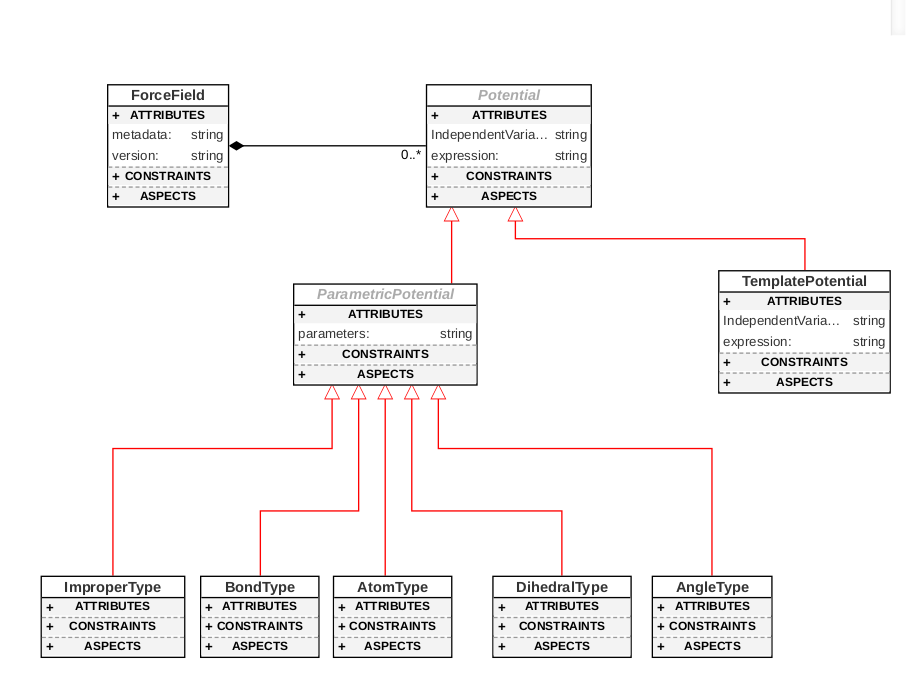
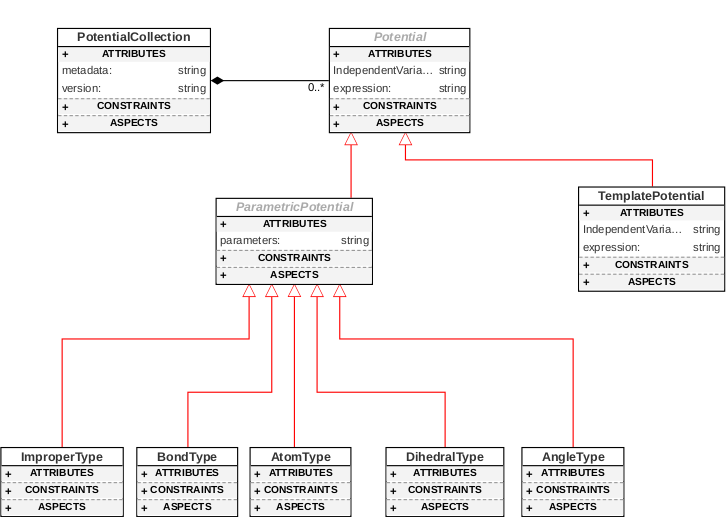
Fix Typos in report.tex. Closes #16 (#17)
* ReadThrough One Fixes

* WIP- Change shanges to changes

* WIP- Change images

* WIP- Fix diagram descriptions

* WIP- Fix typo in set

* WIP- Fix typos/indentation

Changed region(s): [[0.0, 0.3714, 0.8764, 1.0], [0.0604, 0.0309, 0.6648, 0.3404], [0.5742, 0.3095, 0.9973, 0.588]]

diff --git a/docs/report.tex b/docs/report.tex
@@ -42,16 +42,16 @@
 
 {\centering \section*{Overview}}
 
-The General Purpose Molecular Simulation Objects (\textbf{GPMSO}) will be a comprehensive representation of data types, capabilities and structural representation of an object needed to efficiently represent chemical topology/system which can be leveraged to write out files necessary for different simulation engines as well as cover heterogeneous domain of molecular dynamics. \\~\\
+The General Purpose Molecular Simulation Objects (\textbf{GPMSO}) will be a comprehensive representation of data types, capabilities and structural representation of objects needed to efficiently represent chemical topology/system which can be leveraged to write out files necessary for different simulation engines as well as cover heterogeneous domains of molecular simulations. \\~\\
 The objectives of this \textbf{GPMSO} are:
 \begin{enumerate}
-    \item Have an efficient in--memory representation of different aspects of a chemical topology like \texttt{Atoms}, \texttt{Connections}, \texttt{Potential Forms}, \texttt{ForceFields} etc...
+    \item Have an efficient in--memory representation of different aspects of a chemical topology like \texttt{Sites}, \texttt{Connections}, \texttt{Potentials}, \texttt{ForceFields} etc...
     \item Have an efficient serialized/disk representation of the system which can be loaded to create an object and vice versa.
     \item Have a convenient interface for extension/interfacing with other specifications in this realm.
     \item Have support for mathematical expressions and parameters that would be used to represent different physical quantities, preferably with support for different unit systems.
 \end{enumerate}
 
-To that end, this document serves as a starting point for developers/ software scientists looking for standard practices and avoiding pitfalls in deigning/implementing a molecular simulation object.
+To that end, this document serves as a starting point for developers/software scientists looking for standard practices and avoiding pitfalls in designing/implementing a molecular simulation objects.
 
 {\centering \section*{Revision History}}
 \begin{table}[ht]
@@ -73,7 +73,7 @@ To that end, this document serves as a starting point for developers/ software s
 
 % Major Sections
 \section{Introduction}
-System requirements specification (\textbf{SRS}) for the General Purpose Molecular Simulation Objects (\textit{GPMSO}) are introduced in this section.
+System requirements specification (\textbf{SRS}) for the General Purpose Molecular Simulation Objects (\textit{GPMSO}) is introduced in this section.
 
 \subsection{Specification Definition}
 This specification documents the system--level requirements for \textit{GPMSO}.
@@ -85,9 +85,8 @@ The objectives of this specification are:
     \item Provide a system overview of the \textit{GPMSO} including definitions, goals, objectives, context and major capabilities.
     \item To formally specify its associated:
       \begin{itemize}
-          \item Functional requirements
-          \item Data requirements
-          \item Constraints
+          \item Functional requirements via capabilities
+          \item Data requirements via constituents and properties
       \end{itemize}
 \end{itemize}
 
@@ -95,8 +94,8 @@ The objectives of this specification are:
 The intended audiences for this document are:
 
 \begin{enumerate}
-    \item Software developers/Research Engineers/Research Scientists looking for high level overview of an molecular system object
-    \item Researchers using different simulation engines for their MD simulation
+    \item Software developers/Research Scientists/Engineers looking for high level overview of a molecular simulation object
+    \item Researchers using different simulation engines for their molecular simulation
 \end{enumerate}
 
 \subsection{Specification Overview}
@@ -104,59 +103,59 @@ The intended audiences for this document are:
 
 \pagebreak
 \section{GPMSO System Overview}
-Any general purpose representation of a molecular system that could be leveraged for MD simulation purposes has following advantages:
+Any general purpose representation of a molecular system that could be leveraged for molecular simulation purposes has following advantages:
 \begin{enumerate}
     \item Support for multiple different chemistries allows for research groups/ labs not to rely on in house tools but rather harness the power of open--source development practices to solve in--house research problems
     \item Single avenue for maintenance and extension
     \item Possibility of a well maintained, documented open--source code base supporting the needs of a plethora of researchers/software developers working in the area with quick bug--fixes and scheduled releases
 \end{enumerate}
 
-To specify a typed system specification we need the following containers:
+\noindent To specify a typed system specification we need the following containers:
 
 \begin{enumerate}
-    \item The base container (\texttt{System} or \texttt{Topology}): A container object representing physical constructs as well as the necessary physics that define a molecular system.
+    \item The base container (\texttt{System}): A container object representing physical constructs as well as the necessary physics that define a molecular system
 
-    \item The non-physical interaction container (\texttt{ForceField} or \texttt{PotentialCollection}): A container representing non-physical constructs like energies, functional forms of interactions etc… in a typed/parameterized molecular system.
+    \item The non-physical interaction container (\texttt{PotentialCollection}): A container representing non-physical constructs like energies, functional forms of interactions etc… in a typed/parameterized molecular system
 \end{enumerate}
 
-We should be able to create a \texttt{ForceField} or a container of Potentials from a \texttt{System} or \texttt{Topology} container (if they exist). The constituents, properties and capabilities of the containers are shown below (Section~\ref{def:Topology} and Section~\ref{def:Topology}).
+We should be able to create a \texttt{PotentialCollection} from a parameterized/ typed \texttt{System} container. The constituents, properties and capabilities of these containers are described in Section~\ref{def:Topology} and Section~\ref{def:ForceField}.
 
-\subsection{Topology or System}
+\subsection{System}
 \label{def:Topology}
-As mentioned earlier, a \texttt{Topology} or \texttt{System} is a collection of physical constructs that define a molecular system. The constructs (constituents, properties and capabilities) to define a typed \texttt{Topology} or \texttt{System} are shown in  Table~\ref{tab:TopologySpec} :
+As mentioned earlier, a \texttt{System} is a collection of physical constructs that define a molecular system. The constructs (constituents, properties and capabilities) to define a parameterized \texttt{System} are shown in  Table~\ref{tab:TopologySpec}:
 
  \rowcolors{2}{gray!35}{white}
 \begin{table}[ht]
     \centering
-     \caption{Typed Topology Representation}
+     \caption{Parameterized System Representation}
     \begin{tabular}{|l|}
          \hline
          \rowcolor{gray!50}
-         \texttt{Topology}/\texttt{System}  \\
+        \texttt{System}  \\
          \hline
          \textbf{Constituents} \\
-         \texttt{Site} (0..n) \\
-         \texttt{Connection} (0..n)\\
-         \texttt{Potential} (0..n)\\
+         \texttt{Site} (0..*) \\
+         \texttt{Connection} (0..*)\\
+         \texttt{Potential} (0..*)\\
          \hline
          \textbf{Properties}\\
          \texttt{Metadata} \\
          \hline
          \textbf{Capabilities}\\
          \hline
-         - Easy Lookup for constituents \\
-         - Positions Lookup \\
-         - Identifiable Connections \\
-         - Easy bookkeeping for Potentials/Functional forms \\
+         - Easy lookup for constituents \\
+         - Positions lookup \\
+         - Identifiable connections \\
+         - Easy bookkeeping for potentials/functional forms \\
          - Formal serialized representation (deterministic schema) \\
          - Visualization \\
          - Support for different file formats (dependent on the simulation engine) \\
-         - Interaction/Composition with other \texttt{Topology}/\texttt{System}\\
-         - Constituent datatype Validation \\
-         - Unit Support \\
+         - Interaction/Composition with other \texttt{Systems}\\
+         - Constituent datatype validation \\
+         - Unit support \\
          - Extensible architecture \\
          - Easy conversion to/and from other similar \texttt{System} objects\\
-         - Track Changes \\
+         - Track changes \\
 
         \hline
 
@@ -165,51 +164,51 @@ As mentioned earlier, a \texttt{Topology} or \texttt{System} is a collection of 
 \end{table}
 
 \subsubsection{Constituents}
-A topology container should have following constituents:
+A \texttt{System} container should have following constituents:
 \begin{itemize}
-    \item \texttt{Site}: \texttt{Site} represents any general interaction site in a molecular simulation. There can be any number of \texttt{Site} and their variants in a \texttt{Topology}/ \texttt{System} container.
+    \item \texttt{Site}: \texttt{Site} represents any general interaction site in a molecular simulation. There can be any number of \texttt{Site} and their variants in a \texttt{System} container.
 
-    \item \texttt{Connection}: A \texttt{Connection} stores data about connections between sites. There can be any number of \texttt{Connection} and its vairants in a \texttt{Topology}/\texttt{System} container.
+    \item \texttt{Connection}: A \texttt{Connection} stores data about connections between sites. There can be any number of \texttt{Connection} and its variants in a \texttt{System} container.
 
-    \item \texttt{Potential}: \texttt{Potential} stores a general interaction between components of a chemical topology that can be specified by a mathematical expression and parameters. \texttt{Potentials} generally are generally associated with a typed \texttt{System}/ \texttt{Topology} container and there can by any number of \texttt{Potential} and its variants in it.
+    \item \texttt{Potential}: \texttt{Potential} stores a general interaction between components of a chemical topology that can be specified by a mathematical expression and parameters. \texttt{Potentials} are generally associated with a typed/parameterized \texttt{System} container and there can be any number of \texttt{Potential} and its variants in it.
 \end{itemize}
 
 \subsubsection{Properties}
-Generally, the following properties should be associated with a \texttt{Topology}/ \texttt{System} container:
+Generally, the following properties should be associated with a \texttt{System} container:
 
 \begin{itemize}
     \item \texttt{Metadata}: Metadata regarding combining rules, units, parametric solvers etc...
 \end{itemize}
 
 \subsubsection{Capabilities}
-As shown in Table~\ref{tab:TopologySpec}, a \texttt{Topology} or \texttt{System} should have easy lookup for its constituents based on identifiable boundaries like residues or chains, shared attributes of its constituents like all sites of a particular type or potentials of a particular type and many other constructs that might be relevant to molecular simulation. Lookup for constituents should facilitate conversion to other standard representation as well writers that generate files for different simulation engines. A \texttt{Topology} or \texttt{System} container should be able to locate every constituent \texttt{Site} within in 3D-Euclidean space and alter their positions. A \texttt{Topology} or \texttt{System} should also be able to track changes on its constituents.
+As shown in Table~\ref{tab:TopologySpec}, a \texttt{System} should be able easily lookup its constituents based on identifiable boundaries like residues or chains, shared attributes of its constituents like all sites of a particular type, all potentials of a particular type and many other constructs that might be relevant to molecular simulation. Lookup for constituents should facilitate conversion to other standard representation as well writers that generate files for different simulation engines. A \texttt{System} container should be able to locate every constituent \texttt{Site} within in 3D-Euclidean space and alter their positions. A \texttt{System} should also be able to track changes on its constituents.
 
-Additionally, A \texttt{Topology} or \texttt{System} container should also have a deterministic schema for its serialized representation such that a seamless conversion from disk--to--memory or memory--to--disk is possible. A \texttt{Topology} or \texttt{System} container should also have support for different file formats that are required by a diverse array of simulation engines and there should be relatively painless way of handling file--format support.
+Additionally, a \texttt{System} container should also have a deterministic schema for its serialized representation such that a seamless conversion from disk--to--memory or memory--to--disk is possible. A \texttt{System} container should also have support for different file formats that are required by a diverse array of simulation engines and there should be relatively painless way of handling file--format support.
 
-Moreover, a \texttt{Topology} or \texttt{System} container should be able to support a \texttt{Graph} representation and thus associated visualization techniques.
+Moreover, a \texttt{System} container should be able to support a \texttt{Graph} representation and thus associated visualization techniques.
 
-Additionally, a \texttt{System} or \texttt{Topology} container should be capable of validating constituent data types and provide support for representing physical quantities in different unit systems with preferred defaults.
+Additionally, a \texttt{System} container should be capable of validating constituent data types and provide support for representing physical quantities in different unit systems with preferred defaults.
 
-Furthermore, we should be able to get a \texttt{ForceField} or \texttt{PotentialCollection} container from a \texttt{Topology} representation.
+Furthermore, we should be able to get a \texttt{PotentialCollection} container from a \texttt{System} representation.
 
-Finally, the architecture of the \texttt{Topology} or \texttt{System} container should be build in such a way that its easily extensible and can be composed with other containers having the same specification.
+Finally, the architecture of the \texttt{System} container should be built in such a way that its easily extensible and can be composed with other containers having the same specification.
 
-\subsection{ForceField or PotentialCollection}
+\subsection{PotentialCollection}
 \label{def:ForceField}
-As mentioned earlier, a \texttt{ForceField} or \texttt{PotentialCollection} is a non--physical interaction container containing different \texttt{Potential} constituents.  The constructs (constituents, properties and capabilities) to define a \texttt{ForceField} or \texttt{PotentialCollection} are shown in  Table~\ref{tab:ForceFieldSpec}.
+As mentioned earlier, a \texttt{PotentialCollection} is a non--physical interaction container containing different \texttt{Potential} constituents.  The constructs (constituents, properties and capabilities) to define a \texttt{PotentialCollection} are shown in  Table~\ref{tab:ForceFieldSpec}.
 
 
  \rowcolors{2}{gray!35}{white}
 \begin{table}[ht]
     \centering
-     \caption{ForceField Representation}
+     \caption{PotentialCollection Representation}
     \begin{tabular}{|l|}
          \hline
          \rowcolor{gray!50}
-         \texttt{ForceField}/\texttt{PotentialCollection}  \\
+         \texttt{PotentialCollection}  \\
          \hline
          \textbf{Constituents} \\
-         \texttt{Potential} (0..n)\\
+         \texttt{Potential} (0..*)\\
          \hline
          \textbf{Properties}\\
          \texttt{Metadata} \\
@@ -221,10 +220,10 @@ As mentioned earlier, a \texttt{ForceField} or \texttt{PotentialCollection} is a
          - Identifiable relationships between different Potentials\\
          - Formal serialized representation \\
          - Standard human readable formats like XML/JSON \\
-         - Unit Support\\
+         - Unit support\\
          - Constituent datatype validation\\
          - Extensible architecture\\
-         - Track Changes\\
+         - Track changes\\
          - Provenance \\
         \hline
     \end{tabular}
@@ -233,46 +232,48 @@ As mentioned earlier, a \texttt{ForceField} or \texttt{PotentialCollection} is a
 
 \subsubsection{Constituents}
 \begin{itemize}
-    \item \texttt{Potential}: \texttt{Potential} stores a general interaction between components of a chemical topology that can be specified by a mathematical expression and parameters. A \texttt{ForceField}/ \texttt{PotentialCollection} container can contain by any number of \texttt{Potential} and its variants in it. The \texttt{ForceField}'s \texttt{Potentials} can be used to provide \texttt{Potential} information for the \texttt{Topology}'s or \texttt{System}'s constituent sites and connections.
+    \item \texttt{Potential}: \texttt{Potential} stores a general interaction between components of a chemical topology that can be specified by a mathematical expression and parameters. A \texttt{PotentialCollection} container can contain any number of \texttt{Potential} and its variants in it. The \texttt{PotentialCollection}'s \texttt{Potentials} can be used to provide \texttt{Potential} information for the \texttt{System}'s constituent sites and connections.
 \end{itemize}
 
 \subsubsection{Properties}
 \begin{itemize}
-    \item \texttt{Metadata}: Information like \texttt{name}, \texttt{version}, \texttt{electrostaticRules}, etc...  should be considered as Metadata property for the \texttt{ForceField} or \texttt{PotentialCollection} representation.
+    \item \texttt{Metadata}: Information like \texttt{name}, \texttt{version}, \texttt{nonBonded14Scale}, \texttt{electrostatics14Scale} etc...  should be considered as Metadata property for the \texttt{PotentialCollection} representation.
 \end{itemize}
 
 \subsubsection{Capabilities}
-As shown in Table~\ref{tab:ForceFieldSpec}, a \texttt{ForceField} or \texttt{PotentialCollection} should have easy lookup for its constituents based on shared attributes of its constituents like all \texttt{Potentials} of a particular type, shared association etc... A \texttt{ForceField} container should also be able to track changes of its constituents.
+As shown in Table~\ref{tab:ForceFieldSpec}, a  \texttt{PotentialCollection} should have easy lookup for its constituents based on shared attributes of its constituents like all \texttt{Potentials} of a particular type, shared association etc... A \texttt{PotentialCollection} container should also be able to track changes of its constituents.
 
-Additionally, A \texttt{ForceField} container should also have a deterministic schema for  its  serialized  representation  such  that  a  seamless  conversion  from  disk–to–memory  or memory–to–disk is possible. While there can be many ways to have a standard serialized representation, any such representation should be able to:
+Additionally, A \texttt{PotentialCollection} container should also have a deterministic schema for  its  serialized  representation  such  that  a  seamless  conversion  from  disk–to–memory  or memory–to–disk is possible. While there can be many ways to have a standard serialized representation, any such representation should be able to:
 
 \begin{enumerate}
     \item Be represented in a human readable textual format like XML/JSON
-    \item Capture necessary information from the existing standard forcefields used in Molecular simulations
+    \item Capture necessary information from the existing standard forcefields used in molecular simulations
 \end{enumerate}
 
-Additionally, a \texttt{ForceField} or \texttt{PotentialCollection} container should be capable of validating constituent data types and provide support for representing physical quantities in different unit systems with preferred defaults.
+Additionally, a \texttt{PotentialCollection} container should be capable of validating constituent data types and provide support for representing physical quantities in different unit systems with preferred defaults.
 
-Finally, the architecture of \texttt{ForceField} should be build in such away that its easily extensible and can be composed with other containers having the same specification.
+Finally, the architecture of \texttt{PotentialCollection} should be built in such away that its easily extensible and can be composed with other containers having the same specification.
 
 \subsection{Constituents}
 \pagebreak
 \subsection{System Representation Diagrams}
-The overall block diagram of the \texttt{Topology} or \texttt{System} container can be represented via webgme metamodel as shown in Figure~\ref{fig:TopoDiagram}:
+The overall block diagram of the \texttt{System} container can be represented via webgme metamodel as shown in Figure~\ref{fig:TopoDiagram}. In the diagram, the black lines with diamond endings show a containment relationship and the associated cardinality of the containment. The blue lines show a pointer or one--to--one association. The red lines show inheritance and pink lines show a set or one--to--many association. Some identifiable attributes for some of the classes are shown in the figure as well. Additionally, the nodes with gray colored titles are meant to be abstract.
+
+As shown in Figure~\ref{fig:TopoDiagram}, a \texttt{System} can contain any number of \texttt{Site}. \texttt{Atom}, \texttt{Bead} and \texttt{GenericSite} inherit from \texttt{Site}. A \texttt{Bond} has \texttt{src} and \texttt{dst} pointers that have to be an \texttt{Atom}. Similarly, a the set \texttt{connectionMembers} that contains fixed number of \texttt{Atoms}(predefined cardinality) is associated with each \texttt{Connection}.
 
 \begin{figure}[ht]
     \centering
     \includegraphics[width=\textwidth]{docs/topo}
-    \caption{Overall block diagram of the \texttt{Topology} or \texttt{System} Container drawn in webgme. In the diagram, the black lines with diamond endings show a containment relationship and the associated cardinality of the containment. The blue lines show a pointer or one--to--one association. The red lines show inheritance and pink lines show a set or one--to--many association. Some identifiable attributes for some of the classes are shown in the figure as well. Note that for example mass of an \texttt{Atom} is represented as a string signifying the unit system support. Additionally, the nodes with gray colored titles are meant to be abstract}
+    \caption{Overall block diagram of the \texttt{System} container drawn in webgme. Note that (for instance) mass of an \texttt{Atom} is represented as a string signifying the unit system support.}
     \label{fig:TopoDiagram}
 \end{figure}
 
-The overall block diagram of the \texttt{ForceField} container can be represented via webgme metamodel as shown in Figure~\ref{fig:FFDiagram}:
+\noindent The overall block diagram of the \texttt{PotentialCollection} container can be represented via webgme meta--model as shown in Figure~\ref{fig:FFDiagram}:
 
 \begin{figure}[ht]
     \centering
     \includegraphics[width=\textwidth]{docs/pot}
-    \caption{Overall Block diagram of the \texttt{ForceField} container with different Potential variants}
+    \caption{Overall block diagram of the \texttt{PotentialCollection} container with different \texttt{Potential} variants}
     \label{fig:FFDiagram}
 \end{figure}
 
